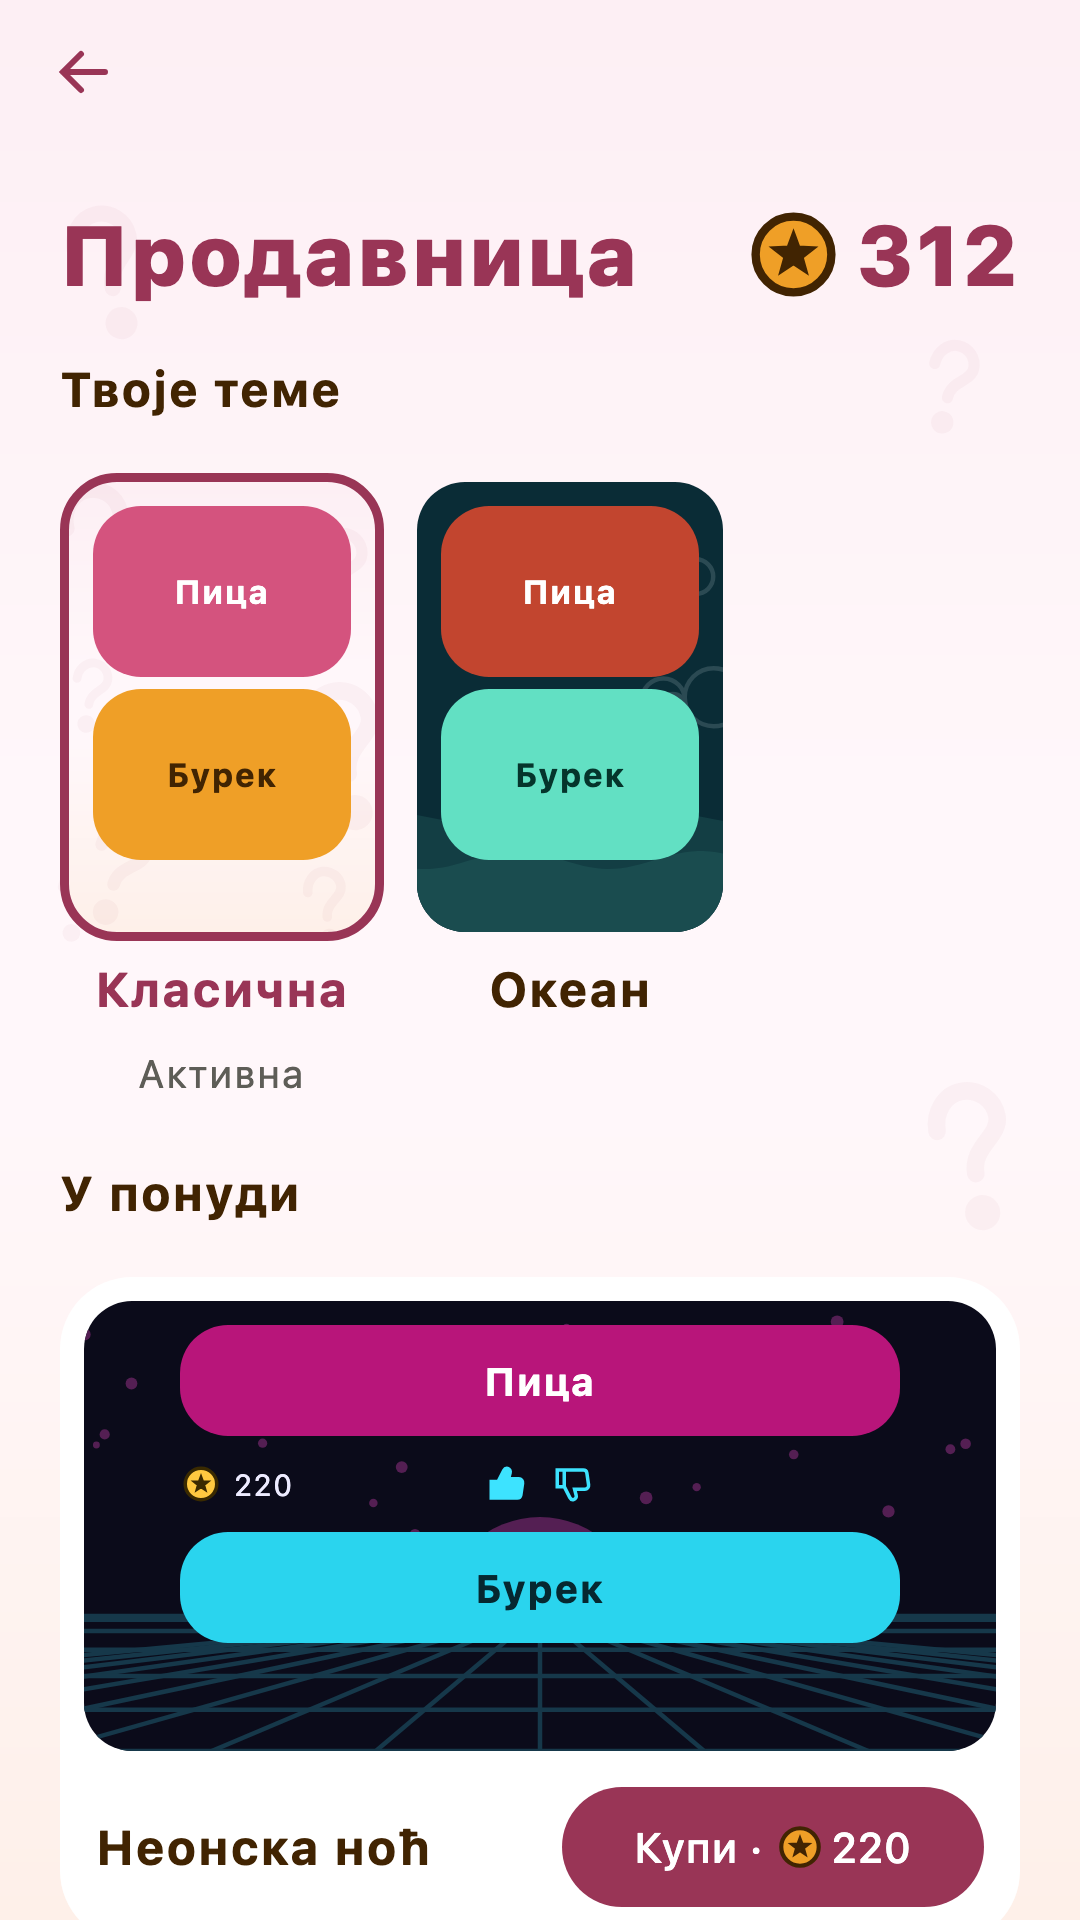
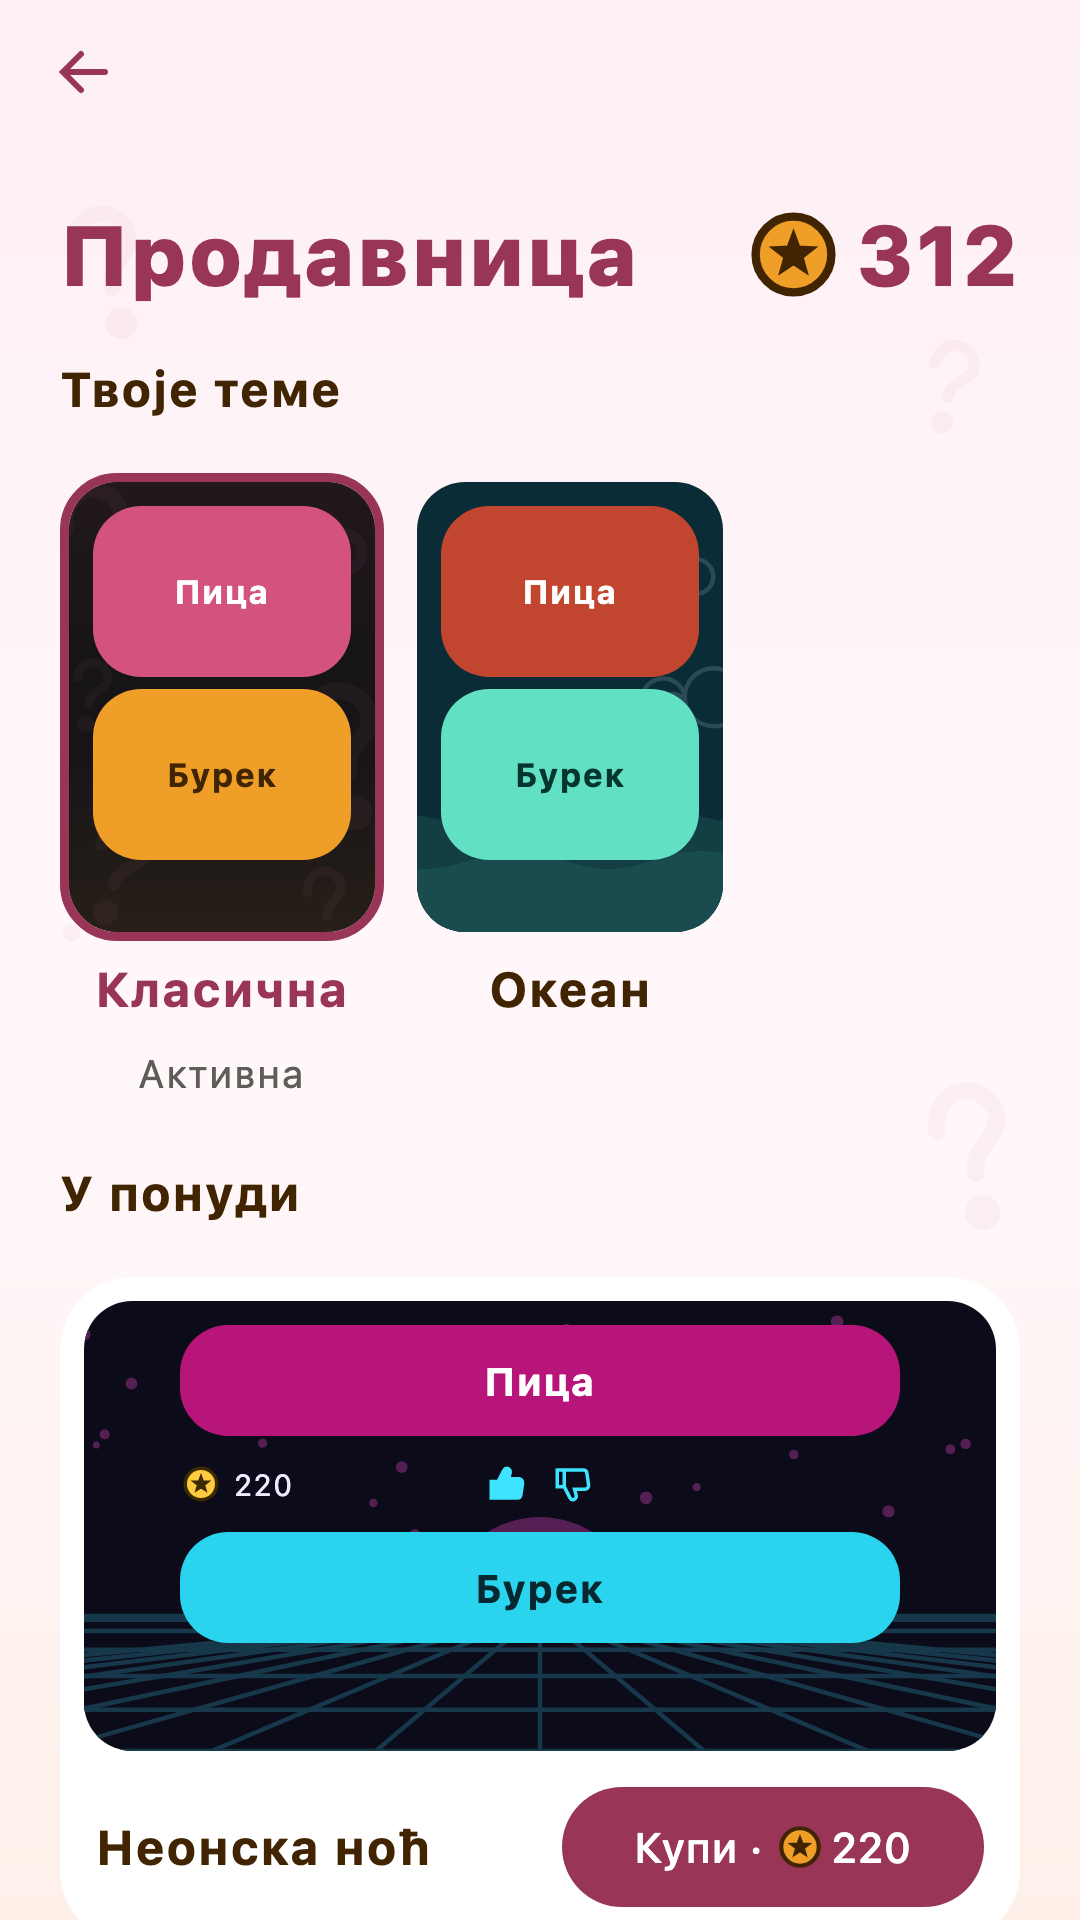
feat(categories): the GROSS category is Бљак, and the listing's Latin paragraph
The user's, for a gentler tone than Гадости. The seed names it so in a new database, and V20
renames it where the seed wrote it and no moderator renamed it since. The store listing's full
description ends with a short Latin paragraph carrying the words players search by.

Changed region(s): [[0.0611, 0.25, 0.3667, 0.5]]

diff --git a/server/src/main/kotlin/io/ntole/wyr/server/db/Seed.kt b/server/src/main/kotlin/io/ntole/wyr/server/db/Seed.kt
@@ -152,7 +152,7 @@ object Seed {
                 StartingCategory(TECHNOLOGY, "Технологија", "Technology", SECOND_CATEGORY_AT + 4),
                 StartingCategory(SPORTS, "Спорт", "Sports", SECOND_CATEGORY_AT + 5),
                 StartingCategory(ANIMALS, "Животиње", "Animals", SECOND_CATEGORY_AT + 6),
-                StartingCategory(GROSS, "Гадости", "Gross", SECOND_CATEGORY_AT + 7),
+                StartingCategory(GROSS, "Бљак", "Yuck", SECOND_CATEGORY_AT + 7),
             )
 
     /**
@@ -781,7 +781,7 @@ object Seed {
                     161 to 115,
             ),
             Starter(ANIMALS, "Видети живог диносауруса", "Видети живог мамута", votes = 305 to 119),
-            // Гадости
+            // Бљак
             Starter(GROSS, "Да ти дах увек мало смрди", "Да ти ноге увек мало смрде", votes = 110 to 235),
             Starter(
                 GROSS,

diff --git a/app/shared/src/jvmTest/kotlin/io/ntole/wyr/StoreGraphicsTest.kt b/app/shared/src/jvmTest/kotlin/io/ntole/wyr/StoreGraphicsTest.kt
@@ -430,7 +430,7 @@ class StoreGraphicsTest {
                 Category(id = "TECHNOLOGY", nameSr = "Технологија", nameEn = "Technology"),
                 Category(id = "SPORTS", nameSr = "Спорт", nameEn = "Sports"),
                 Category(id = "ANIMALS", nameSr = "Животиње", nameEn = "Animals"),
-                Category(id = "GROSS", nameSr = "Гадости", nameEn = "Gross"),
+                Category(id = "GROSS", nameSr = "Бљак", nameEn = "Yuck"),
             )
 
         val SUBMISSIONS =

diff --git a/server/src/test/kotlin/io/ntole/wyr/server/db/MigrationsTest.kt b/server/src/test/kotlin/io/ntole/wyr/server/db/MigrationsTest.kt
@@ -608,6 +608,7 @@ internal class MigrationsTest(
                 "17 SQL",
                 "18 SQL",
                 "19 SQL",
+                "20 SQL",
             )
 
         /** The Home screen's two counts as V15 writes them, as JDBC reads them back as strings. */

diff --git a/CLAUDE.md b/CLAUDE.md
@@ -1574,7 +1574,8 @@ seed (`Migrations`, `DatabaseFactory.init`). Nothing builds a table any other wa
   *Reports*), V12 (an author's block, §8d *Moderation*), V13 (sessions indexed by player, for an
   account's deletion, §8a), V14 (skips and hidden questions indexed by question, for the same), V15
   (the Home screen's two counts, §8d *Home picks*), V16 (an answer's time, *Personalization*, above),
-  V17 (push tokens, §8a), V18 (Play Games links, §8a) and V19 (purchases in the shop, §8d *The shop*).
+  V17 (push tokens, §8a), V18 (Play Games links, §8a), V19 (purchases in the shop, §8d *The shop*) and V20 (the GROSS
+  category renamed *Бљак*, §8d *Categories*).
   `Migrations.migrate` takes the baseline itself (`baselineVersion` 1), and only for a database
   holding every table V1 builds (`TABLES_BEFORE_MIGRATIONS`) and no history table; Flyway's
   `baselineOnMigrate` is off. Any other database with tables and no history fails the boot, rather
@@ -1664,7 +1665,8 @@ seed (`Migrations`, `DatabaseFactory.init`). Nothing builds a table any other wa
   build before names: a player signed in with Play Games plays on there as a guest, through their
   sessions, and submits only with a username too, until the roll forward. V19 adds a table no build
   before names: a buyer's themes are gone there, and their stats do not add up (the price is out of
-  their total but not in `pointsSpent`) until the roll forward. `MigrationsTest` reads a
+  their total but not in `pointsSpent`) until the roll forward. V20 only renames a category, which a
+  build before reads as plain text. `MigrationsTest` reads a
   table a later script dropped by name (`DROPPED_TABLES`), since `Tables.kt` no longer names it.
 - *Several instances booting at once* (Render starts a deploy's new instance before it stops the old
   one): on PostgreSQL each script runs under Flyway's advisory lock, so one boot migrates while the
@@ -2335,7 +2337,8 @@ listed on the Account screen.
     not a migration, a millisecond apart from 2026-09-26 (`Seed.ALL_CATEGORIES`): `TRAVEL`
     (*Путовања*, *Travel*), `WORK` (*Посао*, *Work*), `MONEY` (*Новац*, *Money*), `LOVE` (*Љубав*,
     *Love*), `TECHNOLOGY` (*Технологија*, *Technology*), `SPORTS` (*Спорт*, *Sports*), `ANIMALS`
-    (*Животиње*, *Animals*) and `GROSS` (*Гадости*, *Gross*). Nothing deletes a category. On the wire a category is its id, a plain
+    (*Животиње*, *Animals*) and `GROSS` (*Бљак*, *Yuck*; *Гадости*, *Gross* until 2026-09-29, the user's,
+    for a gentler tone; V20 renames it where the seed wrote it and nobody renamed it since). Nothing deletes a category. On the wire a category is its id, a plain
     string (§5).
   - *The moderator* adds a category with `POST /v1/admin/categories` (`CreateCategoryRequest`,
     answered 201 with its `CategoryDto`) and sets both its names with

diff --git a/store/android/listing.md b/store/android/listing.md
@@ -32,7 +32,7 @@ is in Cyrillic, as the game opens in Cyrillic (CLAUDE.md §8f). Graphics are bes
 • Лајкуј питања која су ти занимљива, а дислајкуј она која нису.
 
 КАТЕГОРИЈЕ
-Храна, путовања, љубав, посао, новац, супермоћи, животиње, спорт, технологија, етика, апсурдно, гадости и још. Играј све одједном или изабери само оно што те занима.
+Храна, путовања, љубав, посао, новац, супермоћи, животиње, спорт, технологија, етика, апсурдно, бљак и још. Играј све одједном или изабери само оно што те занима.
 
 ПОЕНИ И ТЕМЕ
 • Сваки одговор доноси поен.
@@ -49,6 +49,9 @@ is in Cyrillic, as the game opens in Cyrillic (CLAUDE.md §8f). Graphics are bes
 • Када желиш, пријави се преко Google Play игара или направи налог са корисничким именом, да сачуваш поене и шаљеш питања.
 • Бесплатно и без реклама.
 • Питање које не треба да буде у игри можеш да пријавиш, а питања неког аутора да сакријеш.
+
+ŠTA BI RADIJE, NA LATINICI
+Šta bi radije? (sta bi radije, da li bi radije) je zabavna igra pitanja na srpskom: dva odgovora, jedan izbor, a onda vidiš kako su birali drugi. Igra za društvo, za kafu sa prijateljima i za porodična okupljanja, bez reklama. Would you rather, na našem jeziku.
 
 Игра је за особе од 13 година и старије.
 ```
